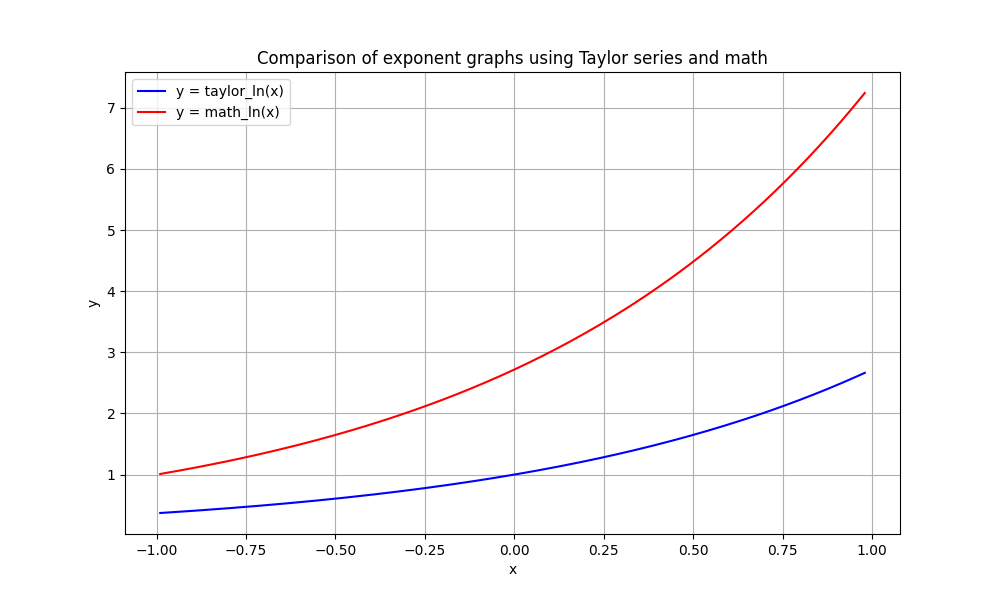
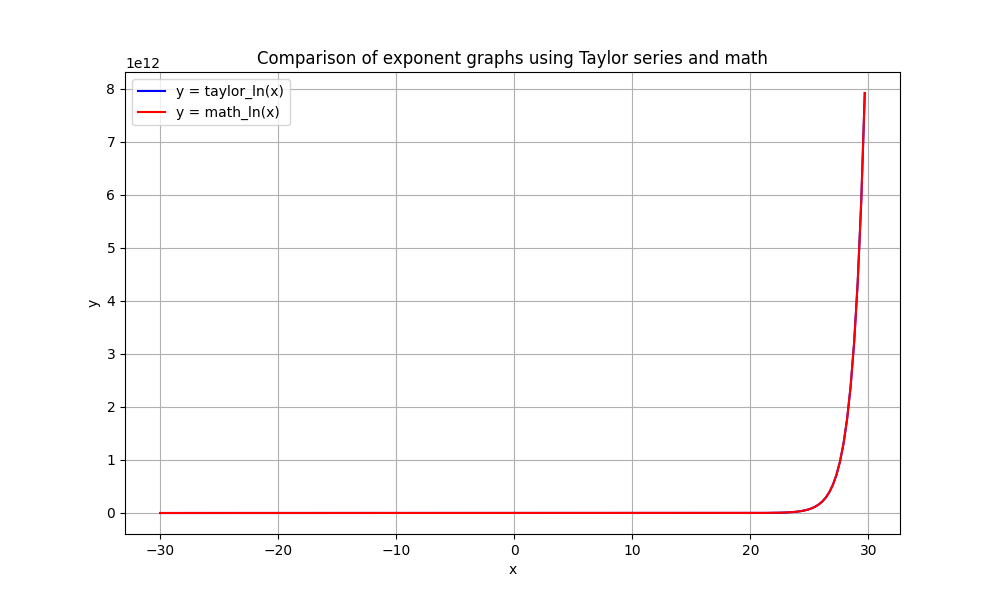
lr4

diff --git a/IGI/LR4/lab4/src/task3/drawer.py b/IGI/LR4/lab4/src/task3/drawer.py
@@ -2,13 +2,8 @@ import matplotlib.pyplot as plt
 
 
 class Drawer(object):
-    """
-    A class for visualizing data and creating plots using matplotlib.
-    Provides methods to plot multiple graphs or a single graph with specified settings.
-    """
 
     def __init__(self):
-        """Initializes the Drawer object with a predefined set of colors for plotting."""
 
         self._colors = ('b-', 'r-', 'g-', 'c-', 'm-', 'y-', 'k-')
 
@@ -18,15 +13,6 @@ class Drawer(object):
                    graphic_names: tuple[str, ...],
                    title: str,
                    filename: str):
-        """
-        Creates and saves a multi-line plot using provided data series.
-
-        :param graphics: A tuple of data series to plot, where each series is a tuple of x and y values.
-        :param coord_names: A tuple containing x and y axis labels.
-        :param graphic_names: A tuple of labels for each graph in the series.
-        :param title: The title of the plot.
-        :param filename: The name of the file where the plot will be saved.
-        """
 
         plt.figure(figsize=(10, 6))
 
@@ -44,68 +30,20 @@ class Drawer(object):
                        title: str,
                        filename: str,
                        color: str = 'b-'):
-        """
-        Creates and saves a single plot based on provided x and y coordinates.
 
-        :param x: A tuple containing the x coordinates for the plot.
-        :param y: A tuple containing the y coordinates for the plot.
-        :param title: The title of the plot.
-        :param filename: The name of the file where the plot will be saved.
-        :param color: The color and line format for the plot (default is 'b-' for a blue line).
-        """
 
-        plt.figure(figsize=(10, 10))
-        plt.plot(x, y, color=color, linewidth=2)
-        plt.fill(x, y, color=color, alpha=0.5)
-        plt.scatter(x[:-1], y[:-1], color='black', zorder=5)
+        plt.savefig(filename)
+        plt.scatter(x[:-1], y[:-1], color='black')
 
         self._set_plot_settings('x', 'y', title, legend=False)
         plt.axis("equal")
-
-        plt.savefig(filename)
+        
         plt.show()
         
-    def plot_by_coords(self,
-                       x: tuple[float, ...],
-                       y: tuple[float, ...],
-                       title: str,
-                       filename: str,
-                       color: str = 'b-'):
-
-        plt.figure(figsize=(10, 10))
-        plt.plot(x, y, color=color, linewidth=2)
-        plt.fill(x, y, color=color, alpha=0.5)
-        plt.scatter(x[:-1], y[:-1], color='black', zorder=5)
-
-        self._set_plot_settings('x', 'y', title, legend=False)
-        plt.axis("equal")
-
-        plt.savefig(filename)
-        plt.show()
         
-        def plot_figure():
-
-            plt.figure(figsize=(10, 10))
-            plt.plot(x, y, color=color, linewidth=2)
-            plt.fill(x, y, color=color, alpha=0.5)
-            plt.scatter(x[:-1], y[:-1], color='black', zorder=5)
-
-            self._set_plot_settings('x', 'y', title, legend=False)
-            plt.axis("equal")
-
-            plt.savefig(filename)
-            plt.show()
 
     @staticmethod
     def _set_plot_settings(x: str, y: str, title: str, legend: bool = True):
-        """
-        Configures plot settings such as grid, axis labels, title, and legend.
-
-        :param x: The label for the x-axis.
-        :param y: The label for the y-axis.
-        :param title: The title of the plot.
-        :param legend: Whether to display the legend on the plot (default is True).
-        """
 
         plt.grid(True)
         plt.xlabel(x)

diff --git a/IGI/LR4/lab4/src/task1/task1.py b/IGI/LR4/lab4/src/task1/task1.py
@@ -22,16 +22,20 @@ class Task1(ITask):
     @repeating_program
     def run(self):
         try:
-            self._repo.add_number("number1", RationalNumber(1, 2))
-            self._repo.add_number("number2", RationalNumber(3, 4))
-            self._repo.add_number("number3", RationalNumber(2, 4))
-            self._repo.add_number("number4", RationalNumber(1, 10))
-            self._repo.add_number("number5", RationalNumber(10, 1))
-            self._repo.add_number("number6", RationalNumber(1, 3))
-            self._repo.add_number("number7", RationalNumber(10, 5))
-            self._repo.add_number("number8", RationalNumber(3, 2))
-            self._repo.add_number("number9", RationalNumber(5, 2))
-            self._repo.add_number("number10", RationalNumber(1, 4))
+
+            rational_numbers = {
+            "number1": RationalNumber(1, 2),
+            "number2": RationalNumber(3, 4),
+            "number3": RationalNumber(2, 4),
+            "number4": RationalNumber(1, 10),
+            "number5": RationalNumber(10, 1),
+            "number6": RationalNumber(1, 3),
+            "number7": RationalNumber(10, 5),
+            "number8": RationalNumber(3, 2),
+            "number9": RationalNumber(5, 2),
+            "number10": RationalNumber(1, 4)}
+            
+            self._repo._numbers = rational_numbers
             
             self._export_methods['csv'].save(self._repo, f'{self._filepath}.csv')
             self._export_methods['pickle'].save(self._repo, f'{self._filepath}.pickle')

diff --git a/IGI/LR4/lab4/src/task3/math_models.py b/IGI/LR4/lab4/src/task3/math_models.py
@@ -14,7 +14,7 @@ class TaylorSeries:
         return self._n
 
     def sum(self):
-        return sum(self._series)
+        return 1 + sum(self._series)
 
     def average_value(self):
         return sum(self._series) / self._n
@@ -50,11 +50,11 @@ class TaylorSeriesExp(TaylorSeries):
     @staticmethod
     def _find_min_n_for_epsilon(epsilon: float, x: float) -> int:
         math_result = math.exp(x)
-        for num_of_members in range(0, 51):
+        for num_of_members in range(0, 501):
             result = TaylorSeries(tuple(pow(x, i)/math.factorial(i) for i in range(1, num_of_members + 1)))
             if abs(result.sum() - math_result) <= epsilon:
                 return num_of_members
-        return 51
+        return 501
 
 
 class TaylorSeriesExpTable:
@@ -62,13 +62,13 @@ class TaylorSeriesExpTable:
     @staticmethod
     def create_table(exp_handler: type[TaylorSeriesExp], eps: float):
         table = []
-        for x in range(-99, 99, 1):
-            f_x = exp_handler(eps, x * 0.01)
+        for x in range(-300, 300, 3):
+            f_x = exp_handler(eps, x * 0.1)
             table.append({
-                'x': x * 0.01,
+                'x': x * 0.1,
                 'n': f_x.n,
                 'fx': f_x.sum(),
-                'math_f': math.exp(x * 0.01 + 1),
+                'math_f': math.exp(x * 0.1),
                 'eps': eps
             })
         return table

diff --git a/IGI/LR4/lab4/src/task3/task3.py b/IGI/LR4/lab4/src/task3/task3.py
@@ -26,13 +26,12 @@ class Task3(ITask):
             print(series)
 
             self._table = self._table_manager.create_table(self._exp_handler, eps)
-            self._plot_ln()
+            self._plot_exp()
             self._plot_n()
         except Exception as e:
             print(e)
 
-    def _plot_ln(self):
-        """Plots the graphs of the natural logarithm using the Taylor series and the math.log function."""
+    def _plot_exp(self):
 
         x, y_taylor, y_math = self._table_manager.extract_columns(self._table, 'x', 'fx', 'math_f')
 
@@ -42,7 +41,6 @@ class Task3(ITask):
                                 f'{self._directory}exp_graphics.png')
 
     def _plot_n(self):
-        """Plots the dependence of the number of terms on x."""
 
         x, n = self._table_manager.extract_columns(self._table, 'x', 'n')
 
@@ -52,9 +50,8 @@ class Task3(ITask):
 
     @staticmethod
     def _input_values():
-        """Prompts the user to input x and eps with validation."""
 
-        x = float(input_with_validating(lambda i: abs(float(i)) < 40 ,'Enter the value of x: (-40, 40): '))
+        x = float(input_with_validating(lambda i: abs(float(i)) < 30 ,'Enter the value of x: (-30, 30): '))
         eps = float(input_with_validating(lambda i: 1 > float(i) > 0.00001, 'Enter the value of eps: (0.00001, 1): '))
         return x, eps
             

diff --git a/IGI/LR4/lab4/src/task1/models.py b/IGI/LR4/lab4/src/task1/models.py
@@ -43,7 +43,7 @@ class RationalNumberRepository:
     
     @numbers.setter
     def numbers(self, numbers: dict[str, list[RationalNumber]]) -> None:
-        self._products = numbers.copy()
+        self._numbers = numbers.copy()
     
     def add_number(self, key: str, number: RationalNumber):
         self._numbers[key] = number

diff --git a/IGI/LR4/lab4/src/utils/io_functions.py b/IGI/LR4/lab4/src/utils/io_functions.py
@@ -17,5 +17,5 @@ def validate_any_input(value, validator: callable) -> bool:
 
 
 def ask_for_repeat() -> bool:
-    choice = input("Repeat? (y/otherwise): ").lower()
+    choice = input("Reload this task? (y/n): ").lower()
     return True if choice == 'y' else False
